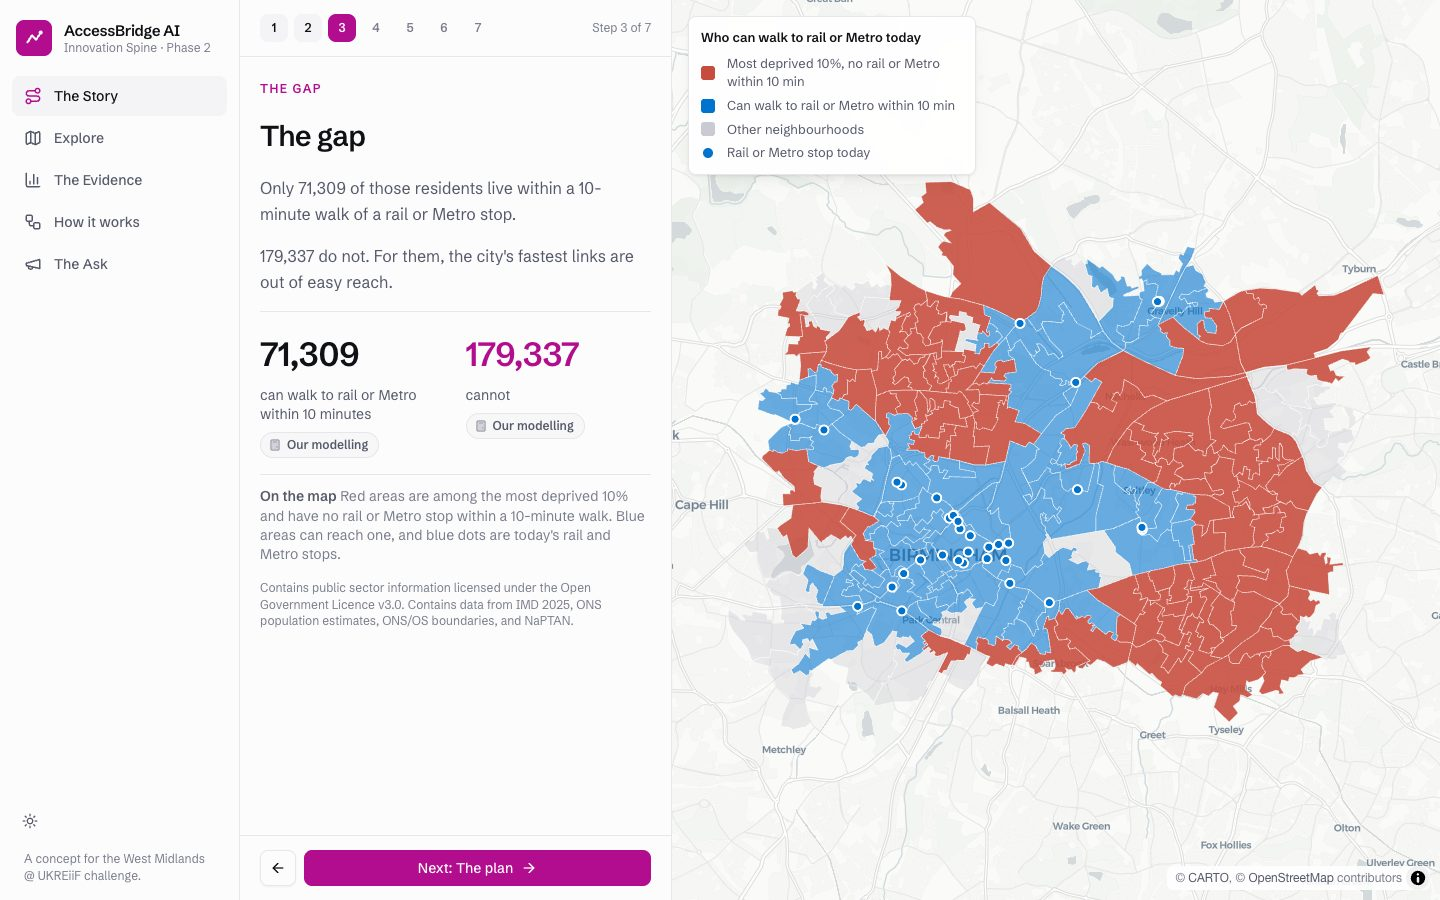
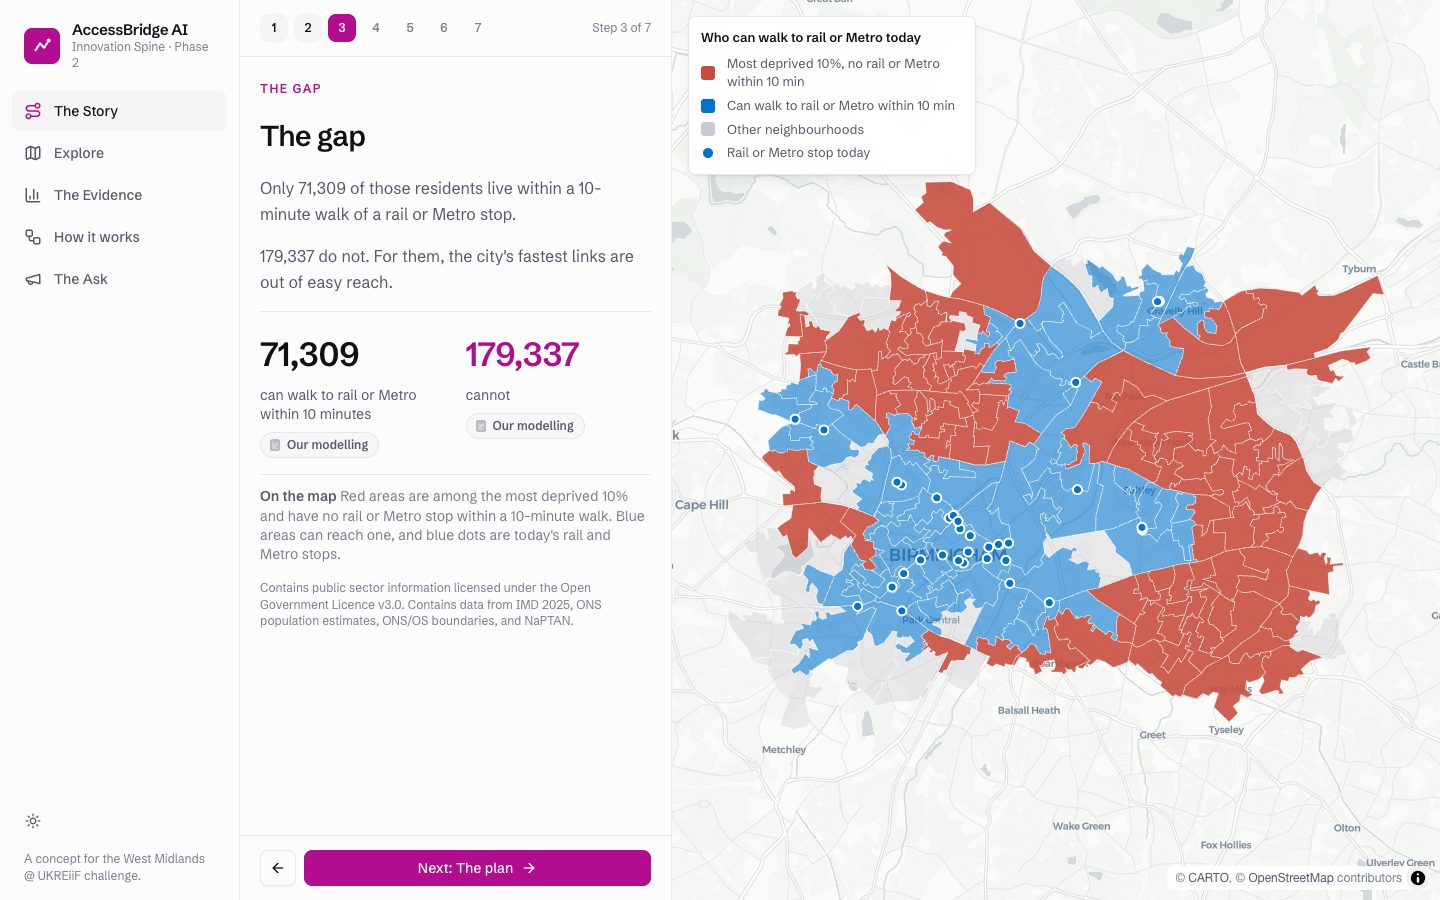
Fix toggle states and tidy spacing across sidebar, toolbar and phones
A visual pass at four widths in both themes, with pixel measurements.

- Selected 2D/3D and walking-time toggles were invisible: the stock shadcn
  "on" colour is the same as the card surface in this theme. Selected toggles
  are now solid primary.
- Sidebar: the brand mark, nav icons and theme toggle share one 24px column,
  measured to the same centre line.
- Explore: the map toolbar uses the same inset as the panel beside it, and its
  wrapped row aligns left on phones.
- Story: the Back and Next controls stay pinned to the bottom on phones, and
  stacked text is capped at 42rem on tablets.
- The budget and stop readouts no longer use tabular figures, which split
  commas in this typeface.

Verified: no console errors and no horizontal overflow at 390, 900, 1280 and
1440 pixels wide in light and dark. 51 backend and 24 browser tests pass.

Changed region(s): [[0.0, 0.0, 0.1562, 0.3111], [0.0, 0.9022, 0.0312, 0.9333]]

diff --git a/frontend/src/pages/ExplorePage.tsx b/frontend/src/pages/ExplorePage.tsx
@@ -129,7 +129,7 @@ export function ExplorePage({ scenario, evidence, explore }: ExplorePageProps) {
               <label htmlFor="budget" className="text-sm font-medium">
                 Budget
               </label>
-              <output htmlFor="budget" className="tabular font-semibold">
+              <output htmlFor="budget" className="font-semibold">
                 {formatGBP(request.budget_gbp)}
               </output>
             </div>
@@ -154,7 +154,7 @@ export function ExplorePage({ scenario, evidence, explore }: ExplorePageProps) {
               <label htmlFor="stops" className="text-sm font-medium">
                 Most stops
               </label>
-              <output htmlFor="stops" className="tabular font-semibold">
+              <output htmlFor="stops" className="font-semibold">
                 {request.max_stops}
               </output>
             </div>
@@ -339,7 +339,7 @@ export function ExplorePage({ scenario, evidence, explore }: ExplorePageProps) {
       </aside>
 
       <div data-testid="explore-map" className="flex min-h-0 min-w-0 flex-col max-lg:h-[62dvh]">
-        <div className="flex flex-wrap items-center gap-2 border-b border-border bg-background px-4 py-2.5">
+        <div className="flex flex-wrap items-center gap-2 border-b border-border bg-background px-5 py-2.5">
           <ModeSwitch mode={explore.mode} onChange={explore.setMode} />
           <ToggleGroup
             type="single"
@@ -356,13 +356,13 @@ export function ExplorePage({ scenario, evidence, explore }: ExplorePageProps) {
             </ToggleGroupItem>
           </ToggleGroup>
 
-          <div className="ml-auto flex flex-wrap items-center gap-2">
+          <div className="ml-auto flex flex-wrap items-center gap-2 max-md:ml-0">
             <Toggle
               variant="outline"
               size="sm"
               pressed={explore.showRailMetro}
               onPressedChange={explore.setShowRailMetro}
-              className="text-sm font-medium data-[state=on]:border-primary/60 data-[state=on]:text-primary"
+              className="text-sm font-medium"
             >
               Rail and Metro
             </Toggle>
@@ -371,7 +371,7 @@ export function ExplorePage({ scenario, evidence, explore }: ExplorePageProps) {
               size="sm"
               pressed={explore.showCandidates}
               onPressedChange={explore.setShowCandidates}
-              className="text-sm font-medium data-[state=on]:border-primary/60 data-[state=on]:text-primary"
+              className="text-sm font-medium"
             >
               All {formatNumber(facts.candidate_stop_count)} possible locations
             </Toggle>

diff --git a/frontend/src/components/ui/toggle.tsx b/frontend/src/components/ui/toggle.tsx
@@ -4,7 +4,7 @@ import { cn } from "@/lib/utils";
 import { Toggle as TogglePrimitive } from "radix-ui";
 
 const toggleVariants = cva(
-  "inline-flex items-center justify-center gap-2 rounded-md text-sm font-medium whitespace-nowrap transition-[color,box-shadow] outline-none hover:bg-muted hover:text-muted-foreground focus-visible:border-ring focus-visible:ring-[3px] focus-visible:ring-ring/50 disabled:pointer-events-none disabled:opacity-50 aria-invalid:border-destructive aria-invalid:ring-destructive/20 data-[state=on]:bg-accent data-[state=on]:text-accent-foreground dark:aria-invalid:ring-destructive/40 [&_svg]:pointer-events-none [&_svg]:shrink-0 [&_svg:not([class*='size-'])]:size-4",
+  "inline-flex items-center justify-center gap-2 rounded-md text-sm font-medium whitespace-nowrap transition-[color,box-shadow] outline-none hover:bg-muted hover:text-muted-foreground focus-visible:border-ring focus-visible:ring-[3px] focus-visible:ring-ring/50 disabled:pointer-events-none disabled:opacity-50 aria-invalid:border-destructive aria-invalid:ring-destructive/20 data-[state=on]:border-primary data-[state=on]:bg-primary data-[state=on]:text-primary-foreground dark:aria-invalid:ring-destructive/40 [&_svg]:pointer-events-none [&_svg]:shrink-0 [&_svg:not([class*='size-'])]:size-4",
   {
     variants: {
       variant: {

diff --git a/frontend/src/pages/StoryPage.tsx b/frontend/src/pages/StoryPage.tsx
@@ -106,7 +106,7 @@ export function StoryPage({ scenario, evidence, navigate }: StoryPageProps) {
           <motion.div
             key={step.id}
             {...fade}
-            className="grid min-h-0 flex-1 content-start gap-4 overflow-y-auto px-5 py-6"
+            className="grid min-h-0 flex-1 content-start gap-4 overflow-y-auto px-5 py-6 [&>*]:max-w-[42rem]"
           >
             <p className="visually-hidden" aria-live="polite">
               Step {index + 1} of {total}: {step.title}
@@ -191,7 +191,7 @@ export function StoryPage({ scenario, evidence, navigate }: StoryPageProps) {
           </motion.div>
         </AnimatePresence>
 
-        <div className="flex items-center gap-2 border-t border-border px-5 py-3.5">
+        <div className="flex items-center gap-2 border-t border-border bg-background px-5 py-3.5 max-lg:sticky max-lg:bottom-0">
           <Button
             variant="outline"
             size="icon"

diff --git a/frontend/src/components/AppSidebar.tsx b/frontend/src/components/AppSidebar.tsx
@@ -90,7 +90,7 @@ export function AppSidebar({ route }: { route: RouteName }) {
     >
       <a
         href="#/story"
-        className={cn("flex items-center gap-3 px-4 py-5 no-underline", compact && "justify-center px-0")}
+        className={cn("flex items-center gap-3 px-6 py-5 no-underline", compact && "justify-center px-0")}
         aria-label="AccessBridge AI, back to the story"
       >
         <BrandMark />
@@ -109,7 +109,9 @@ export function AppSidebar({ route }: { route: RouteName }) {
       </ul>
 
       <div className={cn("mt-auto grid gap-3 px-3 pb-4", compact && "justify-items-center px-2")}>
-        <ThemeToggle />
+        <div className={cn(!compact && "pl-[3px]")}>
+          <ThemeToggle />
+        </div>
         {compact ? null : (
           <p className="px-3 text-xs leading-snug text-dim">
             A concept for the West Midlands @ UKREiiF challenge.
